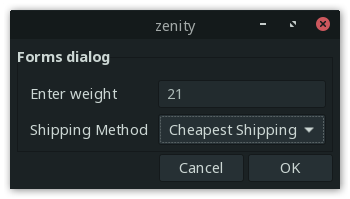
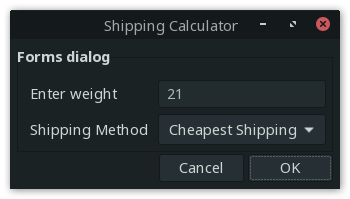
new

diff --git a/shipping_cost_calculator.py b/shipping_cost_calculator.py
@@ -55,7 +55,7 @@ def main():
     #print("Cheapest shipping is " + str(cheapest_shipping))
     # should print "Cheapest shipping is premium shipping = $125.00"
 
-    answer = subprocess.Popen('zenity --forms --add-entry="Enter weight" --add-combo="Shipping Method"\
+    answer = subprocess.Popen('zenity --forms --title="Shipping Calculator" --add-entry="Enter weight" --add-combo="Shipping Method"\
             --combo-values="Ground Shipping|Premium Shipping|Drone Shipping|Cheapest Shipping"', shell=True, stdout=subprocess.PIPE, universal_newlines=True)
 
     answer = answer.stdout.readline()

diff --git a/README.md b/README.md
@@ -1,6 +1,6 @@
 # shipping_calculator
 
-![img1](https://github.com/naa-7/shipping_calculator/blob/main/img1.png)
+![img1]()
 ![img2](https://github.com/naa-7/shipping_calculator/blob/main/img2.png)
 
 The idea of this project is to calculate the cost of different ways of shipping; ground shipping, premium shipping,
